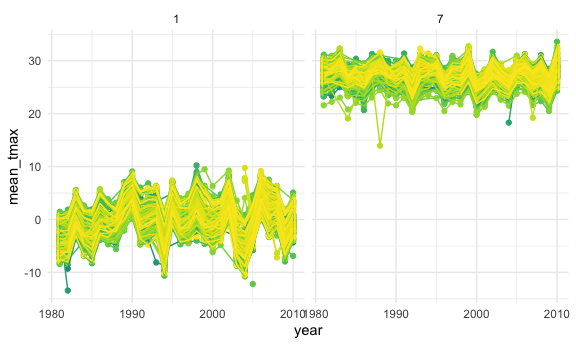
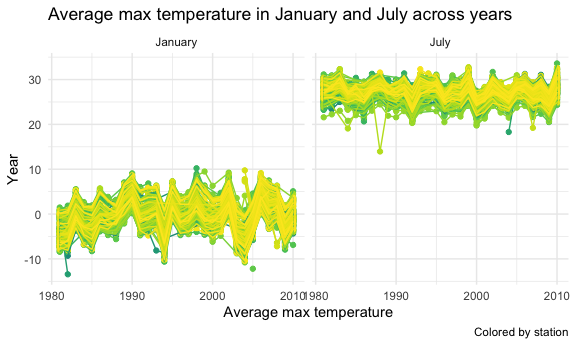
complete hw3

diff --git a/p8105_hw3_ys3297.md b/p8105_hw3_ys3297.md
@@ -203,34 +203,36 @@ accel_df %>%
 |    4 | 409450.00 | 319568.0 |    434460 | 340291.0 | 154049.0 |     1440 | 260617 |
 |    5 | 389080.00 | 367824.0 |    445366 | 549658.0 | 620860.0 |     1440 | 138421 |
 
-I can see no apparent trend in the table.
+Based on the resulting table, we can see that the daily activity counts
+for Tuesdays and Wednesdays are less variant, compared to the daily
+activity counts for other days. This may indicate that the activity
+level of the male on Tuesdays and Wednesdays is more stable than on
+other days.
 
 Make a single-panel plot that shows the 24-hour activity time courses
 for each day and use color to indicate day of the week.
 
 ``` r
 accel_df %>% 
-  group_by(week, day) %>% 
-  summarize(total_activity_day = sum(activity_count)) %>% 
   mutate(day = forcats::fct_relevel(day, c("Monday", "Tuesday", "Wednesday", "Thursday", "Friday", "Saturday", "Sunday"))) %>% 
-  ggplot(aes(x = day, y = total_activity_day, color = day)) + 
+  ggplot(aes(x = minute, y = activity_count, color = day)) + 
     geom_point() + 
+    geom_line() +
     labs(
-      title = "Daily Activity Plot",
-      x = "Day of the week",
-      y = "Daily activity count"
-    )
+      title = "24-hour activity time course plot",
+      x = "Minute of the day starting at midnight",
+      y = "Activity count",
+      color = "Day of the week"
+    ) + 
+    scale_x_continuous(breaks = seq(0, 1440, by = 60))
 ```
-
-    ## `summarise()` regrouping output by 'week' (override with `.groups` argument)
 
 <img src="p8105_hw3_ys3297_files/figure-gfm/unnamed-chunk-8-1.png" width="90%" />
 
-Based on the resulting graph, we can see that the daily activity counts
-for Tuesdays and Wednesdays are less variant, compared to the daily
-activity counts for other days. This may indicate that the activity
-level of the male on Tuesdays and Wednesdays is more stable than on
-other days.
+Based on the resulting graph, we can see that the activity count is
+generally highest from 360 to 690 minute (6:00 AM to 11:30 AM) and from
+960 to 1320 minute (4:00 PM to 10:00 PM), indicating the time ranges of
+a day when the male is most active.
 
 ## Problem 3
 
@@ -276,12 +278,19 @@ in July in each station across years.
 ``` r
 ny_noaa %>% 
   filter(month %in% c(1, 7)) %>% 
+  mutate(month = ifelse(month == 1, "January", "July")) %>% 
   group_by(id, year, month) %>% 
   summarize(mean_tmax = mean(tmax, na.rm = TRUE)) %>% 
   ggplot(aes(x = year, y = mean_tmax, color = id)) + 
-  geom_point() +
-  geom_line() + 
+  geom_point() + 
+  geom_line() +
   facet_grid(~month) + 
+  labs(
+  title = "Average max temperature in January and July across years",
+  x = "Average max temperature",
+  y = "Year",
+  caption = "Colored by station"
+  ) + 
   theme(legend.position = "none")
 ```
 
@@ -292,3 +301,51 @@ ny_noaa %>%
     ## Warning: Removed 5640 row(s) containing missing values (geom_path).
 
 <img src="p8105_hw3_ys3297_files/figure-gfm/unnamed-chunk-11-1.png" width="90%" />
+
+The average max temperature in January in each station across years
+fluctuates around 0 degrees C, and the average max temperature in July
+in each station across years fluctuates around 25 degrees C.
+
+I think there is one outlier in each panel, which is apparently lower
+than the majority of average max temperatures of the month January or
+July in each station across years.
+
+Make a two-panel plot including:
+
+1)  tmax vs tmin for the full dataset
+
+(ii)the distribution of snowfall values greater than 0 and less than 100
+separately by year.
+
+``` r
+tmax_vs_tmin_p = 
+  ny_noaa %>% 
+  ggplot(aes(x = tmin, y = tmax)) +
+  geom_smooth(se = FALSE) +
+  labs(
+    title = "Maximum temperature vs minimum temperature",
+    x = "Maximum temperature (degrees of C)",
+    y = "Minimum temperature (degrees of C)"
+  )
+
+snow_by_year_p = 
+  ny_noaa %>% 
+  filter(snow > 0 & snow < 100) %>% 
+  mutate(year = as.factor(year)) %>% 
+  ggplot(aes(x = year, y = snow)) + 
+  geom_violin(aes(fill = year), color = "blue", alpha = .5) +
+  labs(
+    title = "Snowfall (0 - 100 mm) distribution by year",
+    x = "Year",
+    y = "Snowfall (mm)"
+  ) + 
+  theme(axis.text.x = element_text(angle = 90), legend.position = "none")
+
+tmax_vs_tmin_p / snow_by_year_p
+```
+
+    ## `geom_smooth()` using method = 'gam' and formula 'y ~ s(x, bs = "cs")'
+
+    ## Warning: Removed 1136276 rows containing non-finite values (stat_smooth).
+
+<img src="p8105_hw3_ys3297_files/figure-gfm/unnamed-chunk-12-1.png" width="90%" />
